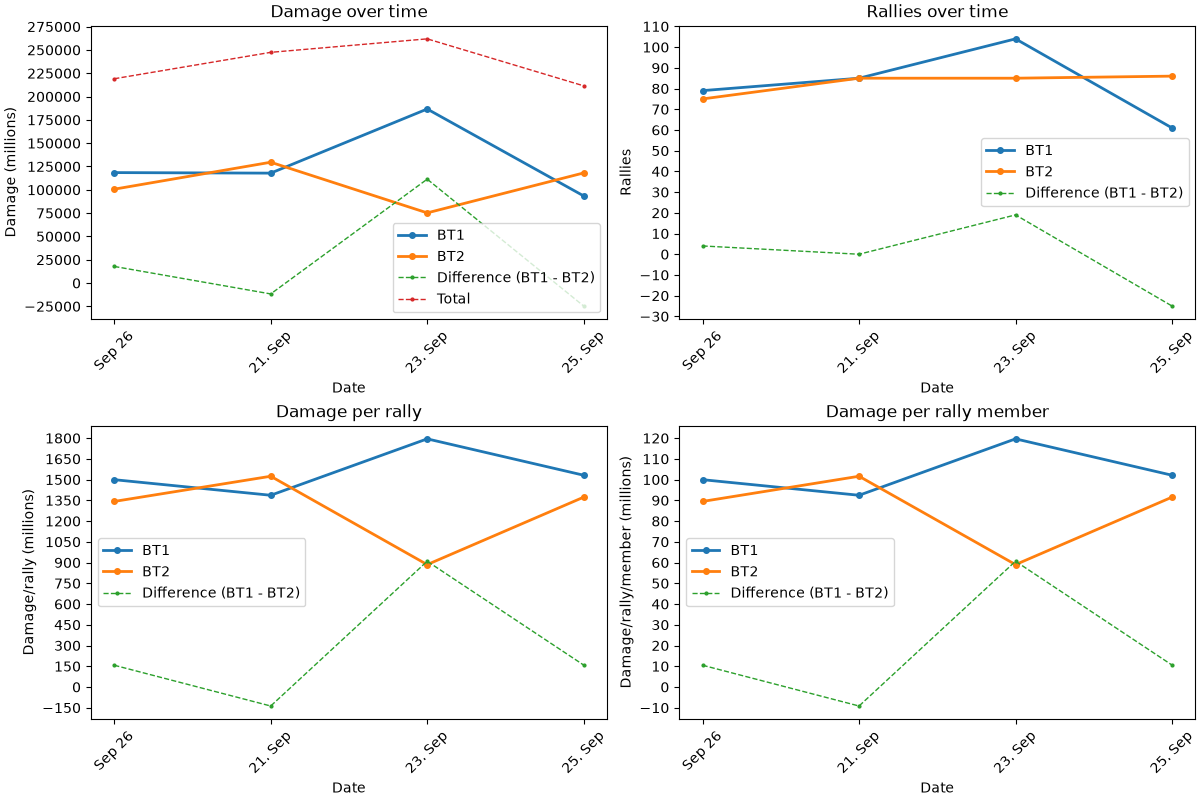
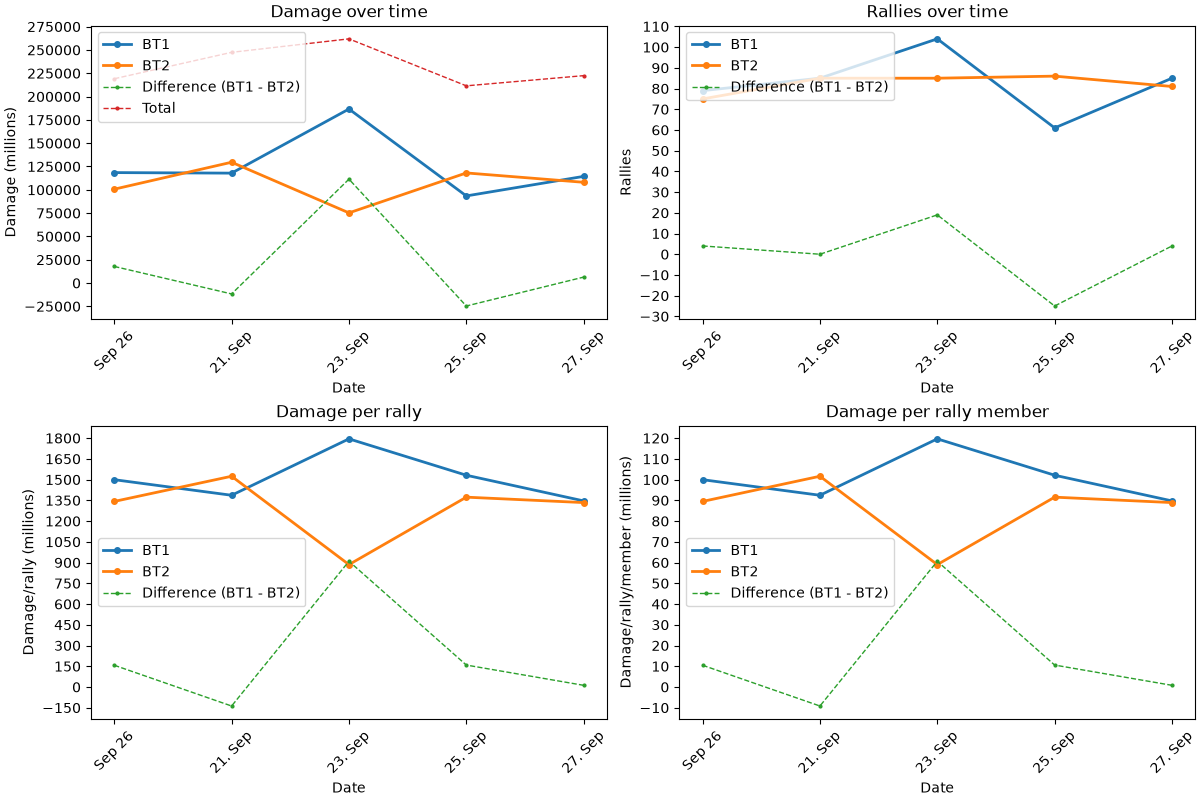
Updated data and improved layout

diff --git a/KSBT/main.py b/KSBT/main.py
@@ -37,7 +37,7 @@ class KSBT:
         ax.set_title("Damage over time")
         ax.set_xlabel("Date")
         ax.set_ylabel("Damage (millions)")
-        ax.legend(loc="best")
+        ax.legend(loc="upper left")
 
     def rallies_over_time(self):
         diff = [b1 - b2 for b1, b2 in zip(self.bt1_rallies, self.bt2_rallies)]
@@ -49,7 +49,7 @@ class KSBT:
         ax.set_title("Rallies over time")
         ax.set_xlabel("Date")
         ax.set_ylabel("Rallies")
-        ax.legend(loc="best")
+        ax.legend(loc="upper left")
 
     def damage_per_rally(self):
         bt1_ratio = [dmg / rallies for dmg, rallies in self.bt1]
@@ -64,7 +64,7 @@ class KSBT:
         ax.set_title("Damage per rally")
         ax.set_xlabel("Date")
         ax.set_ylabel("Damage/rally (millions)")
-        ax.legend(loc="best")
+        ax.legend(loc="center left")
 
     def damage_per_member(self):
         bt1_ratio_mem = [dmg / rallies / MEMBERS_PER_RALLY for dmg, rallies in self.bt1]
@@ -79,7 +79,7 @@ class KSBT:
         ax.set_title("Damage per rally member")
         ax.set_xlabel("Date")
         ax.set_ylabel("Damage/rally/member (millions)")
-        ax.legend(loc="best")
+        ax.legend(loc="center left")
 
     def plot(self):
         self.damage_over_time()
